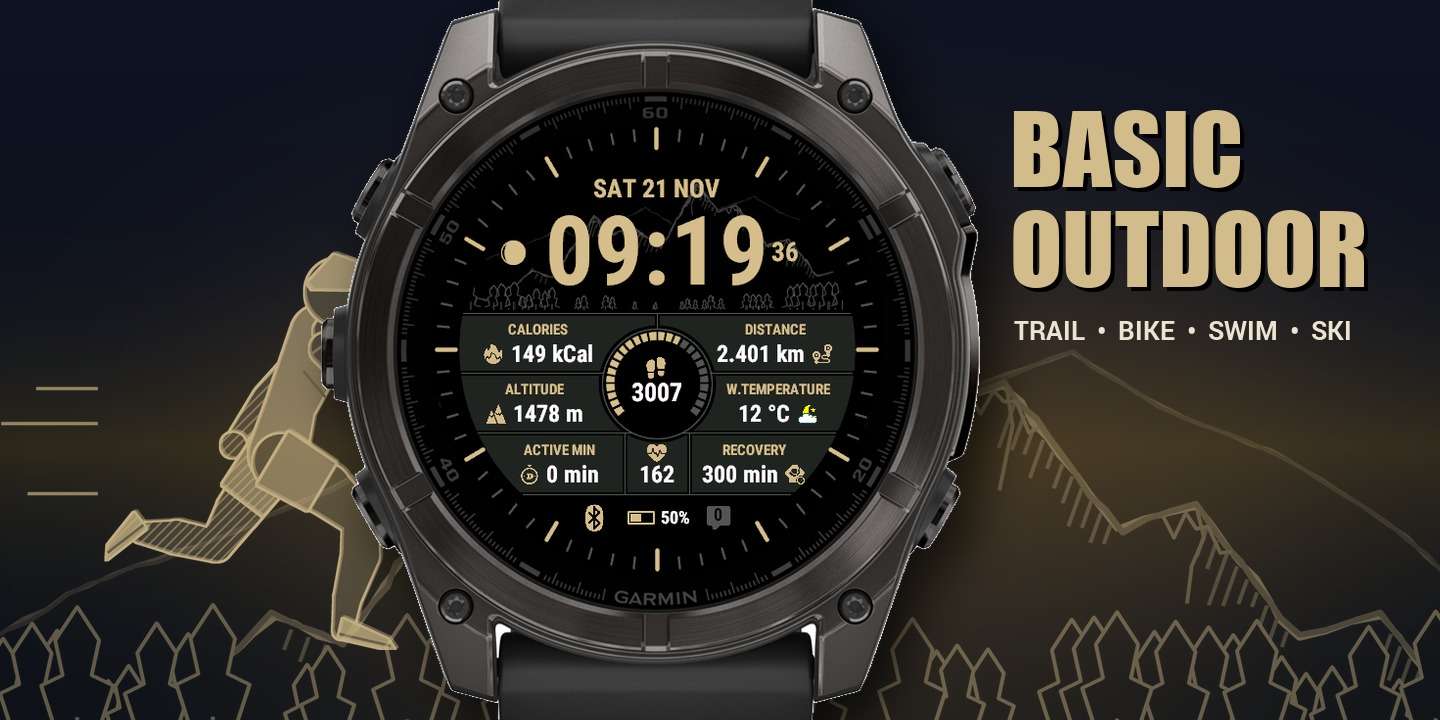
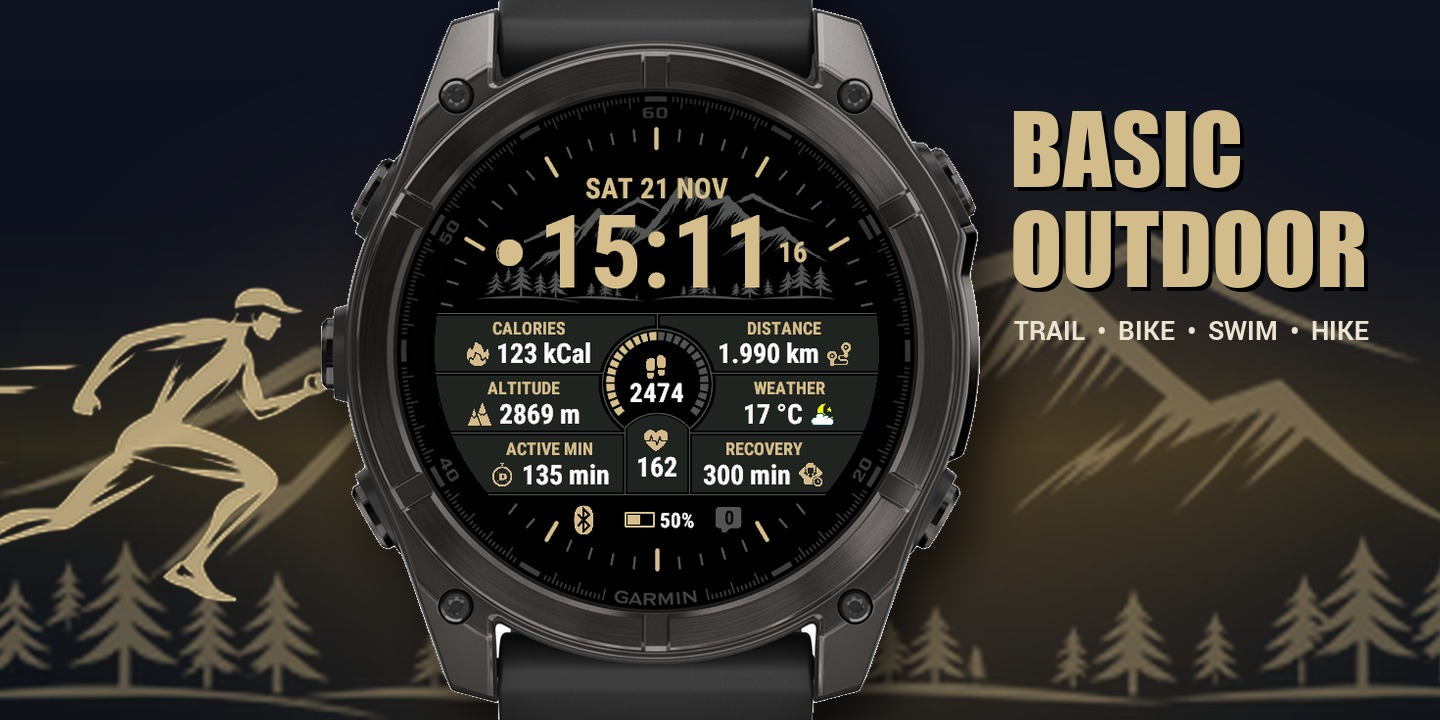
2026_11_21 Docs: new layout, settings and backgrounds, refreshed images
- Screen saver color, show/hide titles icons units, background names (Hiker, Lake, silhouettes), 31 colors
- New screenshots, banner, kiosk and _150 light versions

diff --git a/Manual_ES.md b/Manual_ES.md
@@ -32,7 +32,7 @@
 
 ## Descripción General
 
-**BASIC OUTDOOR** es una esfera outdoor de estilo táctico para relojes Garmin Connect IQ. Una gran hora centrada se muestra sobre un boceto dibujado a mano (montañas, corredor de trail, ciclista, nadador, esquiador...), encima de una cuadrícula estructurada de 7 celdas de datos alrededor de un indicador de objetivo segmentado, con una barra de información en la parte inferior.
+**BASIC OUTDOOR** es una esfera outdoor de estilo táctico para relojes Garmin Connect IQ. Una gran hora centrada se muestra sobre un boceto dibujado a mano (montañas, corredor de trail, ciclista, senderista, lago, siluetas deportivas...), encima de una cuadrícula estructurada de 7 celdas de datos alrededor de un indicador de objetivo segmentado, con una barra de información en la parte inferior.
 
 ### Características Clave
 
@@ -42,7 +42,7 @@
 - ❤ **Campo Inferior Central**: Frecuencia cardíaca por defecto
 - 🔋 **Barra de Información**: Info Izquierda / Batería / Info Derecha
 - 🌙 **Info Superior**: Luna por defecto, a la izquierda de la hora
-- 🎨 **30 Colores Personalizables**: Incluidos los fondos de zonas, las celdas, los separadores y cada icono de campo
+- 🎨 **31 Colores Personalizables**: Incluidos los fondos de zonas, las celdas, los separadores y cada icono de campo
 - 🌦 **Integración Meteorológica**: Garmin Weather y OpenWeatherMap
 - ⚡ **Optimización de Batería**: Modos inteligentes de ahorro de energía
 - 🌍 **Soporte Multilingüe**: 19 idiomas disponibles
@@ -64,8 +64,8 @@
 
 Un boceto dibujado a mano se muestra en la zona superior, detrás de la hora:
 
-- **Paisajes**: Montañas (por defecto), Corredor de trail, Ciclista, Nadador, Esquiador
-- **Siluetas**: Corredor, Ciclista o Nadador ocupando toda la zona superior
+- **Paisajes**: Montañas (por defecto), Corredor de trail, Ciclista, Senderista, Lago
+- **Siluetas**: gran silueta de corredor, ciclista o nadador
 - **Ninguno**: Sin fondo
 - Color de tinte configurable
 
@@ -109,6 +109,8 @@ Cuatro campos info:
 - Zona superior (fecha / hora), 7 celdas alrededor del indicador, zona inferior (info / batería)
 - Cada zona tiene su propio color de fondo
 - Líneas separadoras de 1 px con color configurable (u ocultas)
+- Marcas de horas / minutos solo alrededor de las zonas superior e inferior: las celdas llegan al borde de la pantalla para valores más grandes
+- Arco invertido bajo el indicador para dar más espacio al campo inferior central
 
 ### 9. Meteorología
 
@@ -151,7 +153,7 @@ Cuatro campos info:
 #### Modo Salvapantallas
 ![Screen Saver](docs/images/Screen_Saver.png)
 
-Hora y fecha bajo el boceto de fondo de la parte superior y anillo de nivel de batería alrededor de la pantalla.
+Hora y fecha bajo el boceto de fondo de la parte superior (centradas verticalmente sin boceto) y anillo de nivel de batería alrededor de la pantalla. Todo usa el **Color del salvapantallas** (blanco por defecto).
 
 #### AOD (Always On Display)
 ![AOD Mode](docs/images/Screen_AOD.png)
@@ -241,7 +243,7 @@ Elige cómo se muestran los valores de duración en la esfera:
 | Campo Izquierda Centro | Altitud | Tipo de dato, título personalizado |
 | Campo Izquierda Abajo | Minutos activos del día | Tipo de dato, título personalizado |
 | Campo Derecha Arriba | Distancia del día | Tipo de dato, título personalizado |
-| Campo Derecha Centro | Temperatura meteorológica | Tipo de dato, título personalizado |
+| Campo Derecha Centro | Temperatura meteorológica (título "WEATHER") | Tipo de dato, título personalizado |
 | Campo Derecha Abajo | Tiempo de recuperación | Tipo de dato, título personalizado |
 | Campo de Texto Superior | Fecha | Tipo de dato, título personalizado, modo de visualización |
 | Campo Inferior Central | Frecuencia cardíaca | Tipo de dato |
@@ -249,6 +251,10 @@ Elige cómo se muestran los valores de duración en la esfera:
 | Campo Batería | Batería en porcentaje | Tipo de dato |
 | Info Derecha | Número de notificaciones | Tipo de dato |
 | Info Superior (izquierda de la hora) | Iluminación lunar | Tipo de dato |
+
+#### Visualización de Títulos, Iconos y Unidades
+
+**Mostrar los títulos de los 6 campos laterales** / **Mostrar los iconos de los 6 campos laterales** / **Mostrar las unidades de los 6 campos laterales** (activados por defecto): oculta los títulos, iconos y/o unidades de las 6 celdas. Los elementos restantes se recentran en la celda y los valores usan una fuente más grande.
 
 #### Títulos Personalizados
 
@@ -271,14 +277,14 @@ Deja el título personalizado vacío para usar el título por defecto del dato. 
 | Opción | Descripción |
 |--------|-------------|
 | Ninguno | Sin boceto de fondo |
-| Montañas | Cordillera con abetos sobre la línea separadora (por defecto) |
-| Corredor de trail | Montañas, sendero y corredor |
-| Ciclista | Colinas, carretera y ciclista |
-| Nadador | Lago, olas y nadador |
-| Esquiador | Montañas, pendiente, huellas de esquí y esquiador |
-| Silueta carrera | Corredor detallado ocupando toda la zona superior |
-| Silueta ciclismo | Ciclista detallado ocupando toda la zona superior |
-| Silueta natación | Nadador detallado ocupando toda la zona superior |
+| Montañas | Cordillera con abetos (por defecto) |
+| Corredor de trail | Montañas, abetos y corredor de trail |
+| Ciclista | Montañas, abetos y ciclista |
+| Senderista | Montañas, orilla de lago y senderista |
+| Lago | Montañas reflejadas en un lago, senderista sobre una roca |
+| Silueta carrera | Gran silueta de corredor |
+| Silueta ciclismo | Gran silueta de ciclista |
+| Silueta natación | Gran silueta de nadador |
 
 **Color del boceto de fondo**: Color de tinte del boceto. Elige el mismo color que el fondo de la zona superior para ocultarlo.
 
@@ -286,7 +292,7 @@ Deja el título personalizado vacío para usar el título por defecto del dato. 
 
 ### Personalización de Colores
 
-BASIC OUTDOOR ofrece **30 colores personalizables**:
+BASIC OUTDOOR ofrece **31 colores personalizables**:
 
 | ID | Elemento |
 |----|----------|
@@ -320,6 +326,7 @@ BASIC OUTDOOR ofrece **30 colores personalizables**:
 | 27 | Icono campo derecha abajo |
 | 28 | Líneas separadoras de zonas (= fondo para ocultar) |
 | 29 | Boceto de fondo (= fondo para ocultar) |
+| 30 | Salvapantallas (hora, fecha, boceto, anillo de batería) |
 
 ### Paleta de Colores Predefinidos
 

diff --git a/Manual_FR.md b/Manual_FR.md
@@ -32,7 +32,7 @@
 
 ## Vue d'ensemble
 
-**BASIC OUTDOOR** est un cadran outdoor au style tactique pour les montres Garmin Connect IQ. Une grande heure centrée s'affiche sur une esquisse dessinée à la main (montagnes, coureur trail, cycliste, nageur, skieur...), au-dessus d'une grille structurée de 7 cellules de données entourant une jauge d'objectif segmentée, avec une barre d'informations en bas.
+**BASIC OUTDOOR** est un cadran outdoor au style tactique pour les montres Garmin Connect IQ. Une grande heure centrée s'affiche sur une esquisse dessinée à la main (montagnes, coureur trail, cycliste, randonneur, lac, silhouettes sportives...), au-dessus d'une grille structurée de 7 cellules de données entourant une jauge d'objectif segmentée, avec une barre d'informations en bas.
 
 ### Caractéristiques Clés
 
@@ -42,7 +42,7 @@
 - ❤ **Champ Bas Centre** : Fréquence cardiaque par défaut
 - 🔋 **Barre d'Informations** : Info Gauche / Batterie / Info Droite
 - 🌙 **Info Haut** : Lune par défaut, à gauche de l'heure
-- 🎨 **30 Couleurs Personnalisables** : Dont les fonds de zones, les cellules, les séparations et chaque icône de champ
+- 🎨 **31 Couleurs Personnalisables** : Dont les fonds de zones, les cellules, les séparations et chaque icône de champ
 - 🌦 **Intégration Météo** : Garmin Weather et OpenWeatherMap
 - ⚡ **Optimisation Batterie** : Modes économie d'énergie intelligents
 - 🌍 **Support Multilingue** : 19 langues disponibles
@@ -64,8 +64,8 @@
 
 Une esquisse dessinée à la main s'affiche dans la zone haute, derrière l'heure :
 
-- **Paysages** : Montagnes (par défaut), Coureur trail, Cycliste, Nageur, Skieur
-- **Silhouettes** : Coureur, Cycliste ou Nageur occupant toute la zone haute
+- **Paysages** : Montagnes (par défaut), Coureur trail, Cycliste, Randonneur, Lac
+- **Silhouettes** : grande silhouette de coureur, cycliste ou nageur
 - **Aucun** : Pas de fond
 - Teinte de couleur configurable
 
@@ -109,6 +109,8 @@ Quatre champs info :
 - Zone haute (date / heure), 7 cellules autour de la jauge, zone basse (infos / batterie)
 - Chaque zone a sa propre couleur de fond
 - Lignes de séparation de 1 px de couleur configurable (ou masquées)
+- Graduations heures / minutes uniquement autour des zones haute et basse : les cellules vont jusqu'au bord de l'écran pour des valeurs plus grandes
+- Arc inversé sous la jauge pour laisser plus de place au champ bas centre
 
 ### 9. Météo
 
@@ -151,7 +153,7 @@ Quatre champs info :
 #### Mode Économiseur d'Écran
 ![Screen Saver](docs/images/Screen_Saver.png)
 
-Heure et date sous l'esquisse de fond de la partie haute et anneau de niveau de batterie autour de l'écran.
+Heure et date sous l'esquisse de fond de la partie haute (centrées verticalement sans esquisse) et anneau de niveau de batterie autour de l'écran. Tout utilise la **Couleur économiseur d'écran** (blanc par défaut).
 
 #### AOD (Always On Display)
 ![AOD Mode](docs/images/Screen_AOD.png)
@@ -241,7 +243,7 @@ Choisissez l'affichage des valeurs de durée sur le cadran :
 | Champ Gauche Milieu | Altitude | Type de donnée, titre personnalisé |
 | Champ Gauche Bas | Minutes actives du jour | Type de donnée, titre personnalisé |
 | Champ Droite Haut | Distance du jour | Type de donnée, titre personnalisé |
-| Champ Droite Milieu | Température météo | Type de donnée, titre personnalisé |
+| Champ Droite Milieu | Température météo (titre « WEATHER ») | Type de donnée, titre personnalisé |
 | Champ Droite Bas | Temps de récupération | Type de donnée, titre personnalisé |
 | Champ Texte Haut | Date | Type de donnée, titre personnalisé, mode d'affichage |
 | Champ Bas Centre | Fréquence cardiaque | Type de donnée |
@@ -249,6 +251,10 @@ Choisissez l'affichage des valeurs de durée sur le cadran :
 | Champ Batterie | Batterie en pourcentage | Type de donnée |
 | Info Droite | Nombre de notifications | Type de donnée |
 | Info Haut (à gauche de l'heure) | Illumination de la lune | Type de donnée |
+
+#### Affichage des Titres, Icônes et Unités
+
+**Afficher les titres des 6 champs latéraux** / **Afficher les icônes des 6 champs latéraux** / **Afficher les unités des 6 champs latéraux** (activés par défaut) : masque les titres, les icônes et/ou les unités des 6 cellules. Les éléments restants sont recentrés dans la cellule et les valeurs passent dans une police plus grande.
 
 #### Titres Personnalisés
 
@@ -271,14 +277,14 @@ Laissez le titre personnalisé vide pour utiliser le titre par défaut de la don
 | Option | Description |
 |--------|-------------|
 | Aucun | Pas d'esquisse de fond |
-| Montagnes | Chaîne de montagnes avec sapins posés sur la séparation (par défaut) |
-| Coureur trail | Montagnes, sentier et coureur |
-| Cycliste | Collines, route et cycliste |
-| Nageur | Lac, vagues et nageur |
-| Skieur | Montagnes, pente, traces de ski et skieur |
-| Silhouette course | Coureur détaillé occupant toute la zone haute |
-| Silhouette vélo | Cycliste détaillé occupant toute la zone haute |
-| Silhouette natation | Nageur détaillé occupant toute la zone haute |
+| Montagnes | Chaîne de montagnes avec sapins (par défaut) |
+| Coureur trail | Montagnes, sapins et coureur trail |
+| Cycliste | Montagnes, sapins et cycliste |
+| Randonneur | Montagnes, bord de lac et randonneur |
+| Lac | Montagnes reflétées dans un lac, randonneur sur un rocher |
+| Silhouette course | Grande silhouette de coureur |
+| Silhouette vélo | Grande silhouette de cycliste |
+| Silhouette natation | Grande silhouette de nageur |
 
 **Couleur esquisse de fond** : Teinte de l'esquisse. Choisissez la même couleur que le fond de la zone haute pour la masquer.
 
@@ -286,7 +292,7 @@ Laissez le titre personnalisé vide pour utiliser le titre par défaut de la don
 
 ### Personnalisation des Couleurs
 
-BASIC OUTDOOR offre **30 couleurs personnalisables** :
+BASIC OUTDOOR offre **31 couleurs personnalisables** :
 
 | ID | Élément |
 |----|---------|
@@ -320,6 +326,7 @@ BASIC OUTDOOR offre **30 couleurs personnalisables** :
 | 27 | Icône champ droite bas |
 | 28 | Lignes de séparation des zones (= fond pour masquer) |
 | 29 | Esquisse de fond (= fond pour masquer) |
+| 30 | Économiseur d'écran (heure, date, esquisse, anneau batterie) |
 
 ### Palette de Couleurs Prédéfinies
 

diff --git a/Manual_EN.md b/Manual_EN.md
@@ -32,7 +32,7 @@
 
 ## Overview
 
-**BASIC OUTDOOR** is a tactical outdoor watch face for Garmin Connect IQ watches. A large centered time sits on a hand-drawn sketch background (mountains, trail runner, cyclist, swimmer, skier...), above a structured grid of 7 data cells surrounding a segmented goal gauge, with a bottom info bar.
+**BASIC OUTDOOR** is a tactical outdoor watch face for Garmin Connect IQ watches. A large centered time sits on a hand-drawn sketch background (mountains, trail runner, cyclist, hiker, lake, sport silhouettes...), above a structured grid of 7 data cells surrounding a segmented goal gauge, with a bottom info bar.
 
 ### Key Features
 
@@ -42,7 +42,7 @@
 - ❤ **Bottom Center Field**: Heart rate by default
 - 🔋 **Bottom Info Bar**: Info Left / Battery / Info Right
 - 🌙 **Info Top Field**: Moon by default, left of the time
-- 🎨 **30 Customizable Colors**: Including zone backgrounds, cells, separators and each field icon
+- 🎨 **31 Customizable Colors**: Including zone backgrounds, cells, separators and each field icon
 - 🌦 **Weather Integration**: Garmin Weather and OpenWeatherMap
 - ⚡ **Battery Optimization**: Intelligent power saving modes
 - 🌍 **Multilingual Support**: 19 languages — full interface translations for French (FR), Spanish (ES), Italian (IT) and German (DE); base translations for Bulgarian, Czech, Danish, Dutch, Finnish, Croatian, Hungarian, Norwegian, Polish, Portuguese, Russian, Slovak, Slovenian, and Swedish
@@ -64,8 +64,8 @@
 
 A hand-drawn sketch is displayed in the top zone, behind the time:
 
-- **Landscapes**: Mountains (default), Trail Runner, Cyclist, Swimmer, Skier
-- **Silhouettes**: Runner, Cyclist or Swimmer silhouette filling the whole top zone
+- **Landscapes**: Mountains (default), Trail Runner, Cyclist, Hiker, Lake
+- **Silhouettes**: large Runner, Cyclist or Swimmer silhouette
 - **None**: No background
 - Tinted with a configurable color
 
@@ -109,6 +109,8 @@ Four info fields:
 - Top zone (date / time), 7 cells around the gauge, bottom zone (infos / battery)
 - Each zone has its own background color
 - 1 px separator lines with configurable color (or hidden)
+- Hour / minute ticks around the top and bottom zones only: data cells extend to the screen edge for bigger values
+- Inverted arc below the gauge to give more room to the bottom center field
 
 ### 9. Weather
 
@@ -151,7 +153,7 @@ Four info fields:
 #### Screen Saver Mode
 ![Screen Saver](docs/images/Screen_Saver.png)
 
-Time and date below the background sketch of the top part and battery level ring around the screen.
+Time and date below the background sketch of the top part (vertically centered when no sketch is displayed) and battery level ring around the screen. Everything uses the **Screen Saver Color** (white by default).
 
 #### AOD (Always On Display)
 ![AOD Mode](docs/images/Screen_AOD.png)
@@ -241,7 +243,7 @@ Choose how duration-based values are displayed across the watch face:
 | Left Middle Field | Altitude | Data type, custom title |
 | Left Bottom Field | Active Minutes : Daily | Data type, custom title |
 | Right Top Field | Distance : Daily | Data type, custom title |
-| Right Middle Field | Weather Temperature | Data type, custom title |
+| Right Middle Field | Weather Temperature (title "WEATHER") | Data type, custom title |
 | Right Bottom Field | Recovery Time | Data type, custom title |
 | Top Text Field | Date | Data type, custom title, display mode |
 | Bottom Center Field | Heart Rate | Data type |
@@ -249,6 +251,10 @@ Choose how duration-based values are displayed across the watch face:
 | Battery Field | Battery In Percents | Data type |
 | Info Right | Notifications Count | Data type |
 | Info Top (left of time) | Moon Illumination | Data type |
+
+#### Titles, Icons & Units Display
+
+**Show Titles Of The 6 Side Fields** / **Show Icons Of The 6 Side Fields** / **Show Units Of The 6 Side Fields** (enabled by default): hide titles, icons and/or units of the 6 data cells. Remaining elements are re-centered in the cell and values get a bigger font.
 
 #### Custom Titles
 
@@ -271,14 +277,14 @@ Leave the custom title empty to use the default data title. Titles are displayed
 | Option | Description |
 |--------|-------------|
 | None | No background sketch |
-| Mountains | Mountain range with pine trees on the separator line (default) |
-| Trail Runner | Mountains, trail and runner |
-| Cyclist | Rolling hills, road and cyclist |
-| Swimmer | Lake, waves and swimmer |
-| Skier | Mountains, slope, ski tracks and skier |
-| Runner Silhouette | Detailed runner filling the top zone |
-| Cyclist Silhouette | Detailed cyclist filling the top zone |
-| Swimmer Silhouette | Detailed swimmer filling the top zone |
+| Mountains | Mountain range with pine trees (default) |
+| Trail Runner | Mountains, pine trees and trail runner |
+| Cyclist | Mountains, pine trees and cyclist |
+| Hiker | Mountains, lake shore and hiker |
+| Lake | Mountains reflected in a lake, hiker on a rock |
+| Runner Silhouette | Large runner silhouette |
+| Cyclist Silhouette | Large cyclist silhouette |
+| Swimmer Silhouette | Large swimmer silhouette |
 
 **Background Sketch Color**: Tint color of the sketch. Select the same color as the top zone background to hide it.
 
@@ -286,7 +292,7 @@ Leave the custom title empty to use the default data title. Titles are displayed
 
 ### Color Customization
 
-BASIC OUTDOOR offers **30 customizable colors**:
+BASIC OUTDOOR offers **31 customizable colors**:
 
 | ID | Element |
 |----|---------|
@@ -320,6 +326,7 @@ BASIC OUTDOOR offers **30 customizable colors**:
 | 27 | Right Bottom Field Icon Color |
 | 28 | Zones Separator Lines Color (= background to hide) |
 | 29 | Background Sketch Color (= background to hide) |
+| 30 | Screen Saver Color (time, date, sketch, battery ring) |
 
 ### Predefined Color Palette
 

diff --git a/CHANGELOG.md b/CHANGELOG.md
@@ -11,7 +11,7 @@ The format is based on [Keep a Changelog](https://keepachangelog.com/en/1.0.0/).
 ### Added
 - Initial beta of BASIC OUTDOOR
 - Large centered time with fixed-position seconds and AM/PM
-- Top zone sketch background: Mountains (default), Trail Runner, Cyclist, Swimmer, Skier, Runner / Cyclist / Swimmer silhouettes, or None
+- Top zone sketch background: Mountains (default), Trail Runner, Cyclist, Hiker, Lake, Runner / Cyclist / Swimmer silhouettes, or None
 - Configurable sketch color
 - 6 data cells (title, colored icon, value) around a segmented center goal gauge
 - Bottom center field (heart rate by default)
@@ -19,12 +19,16 @@ The format is based on [Keep a Changelog](https://keepachangelog.com/en/1.0.0/).
 - 4 info fields: Info Top (moon), Info Left, Battery, Info Right
 - Configurable backgrounds for top zone, cells and bottom zone
 - 1 px zone separator lines with configurable color
-- 30 customizable colors, including each field icon color
+- 31 customizable colors, including each field icon color
 - 3 custom hexadecimal colors
 - Dual weather support (Garmin Weather + OpenWeatherMap)
 - 7 date display formats
 - Multilingual support (19 languages)
 - Intelligent power saving (screen saver + screen off)
+- Screen saver: time and date below the sketch (centered without sketch), battery ring, dedicated Screen Saver Color
+- Show / hide titles, icons and units of the 6 side fields (remaining elements re-centered, bigger values)
+- Ticks around top and bottom zones only, data cells up to the screen edge, bigger fonts
+- Inverted arc below the gauge for a bigger bottom center field
 
 ---
 

diff --git a/docs/images/README.md b/docs/images/README.md
@@ -7,14 +7,17 @@ This folder contains images used in the documentation.
 | File | Description |
 |------|-------------|
 | `Banner.jpg` | Main banner for README and manuals |
+| `Kiosk.jpg` | Banner-size showcase of all screenshots (1440x720) |
 | `Display_Overview.png` | Watch face layout overview |
 | `Full_Screen_1.png` | Full display mode screenshot (default settings) |
 | `Full_Screen_2.png` | Full display mode screenshot (alternate colors and cyclist silhouette) |
-| `Full_Screen_3.png` | Blue accent, Swimmer background |
-| `Full_Screen_4.png` | White accent, Swimmer silhouette |
-| `Full_Screen_5.png` | Green accent, Trail Runner background |
-| `Full_Screen_6.png` | Red accent, Skier background |
+| `Full_Screen_3.png` | Blue accent, Lake background, titles hidden |
+| `Full_Screen_4.png` | White accent, Swimmer silhouette, icons hidden |
+| `Full_Screen_5.png` | Green accent, Trail Runner background, one color per field icon |
+| `Full_Screen_6.png` | Red accent, Hiker background, titles and units hidden |
 | `Screen_AOD.png` | Always On Display mode screenshot |
 | `Screen_Saver.png` | Screen saver mode screenshot |
+
+Each image also exists as a lighter `*_150` version (under 150 KB, same dimensions) for stores and web pages with size limits.
 
 > Source files are kept in `Watchfaces_Ressources/08_Basic_Outdoor/Design`.

diff --git a/README.md b/README.md
@@ -24,8 +24,8 @@ Choose your language:
 
 - **46 compatible Garmin watches**
 - **76+ data types** available
-- **30 customizable colors**
-- **8 hand-drawn sketch backgrounds** (mountains, trail runner, cyclist, swimmer, skier, sport silhouettes) or none
+- **31 customizable colors**
+- **8 hand-drawn sketch backgrounds** (mountains, trail runner, cyclist, hiker, lake, runner / cyclist / swimmer silhouettes) or none
 - **6 data cells** with title, colored icon and value around a **segmented goal gauge**
 - **Large centered time** with fixed-position seconds and AM/PM
 - **Dual weather support** (Garmin Weather + OpenWeatherMap)
